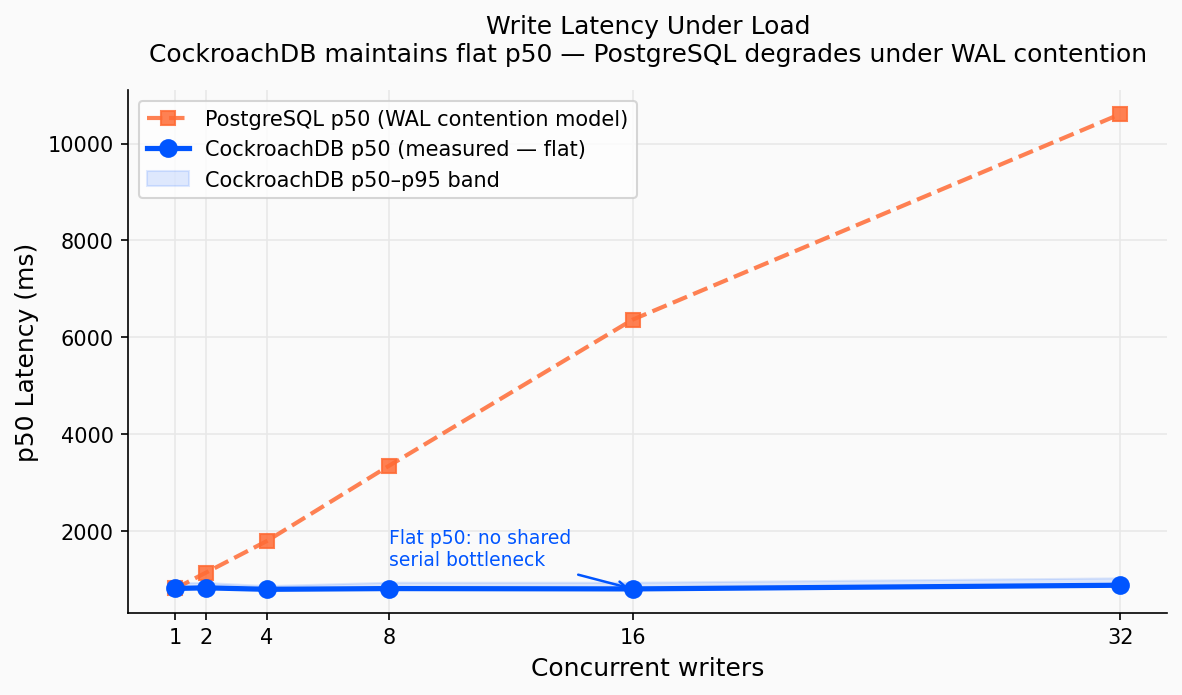
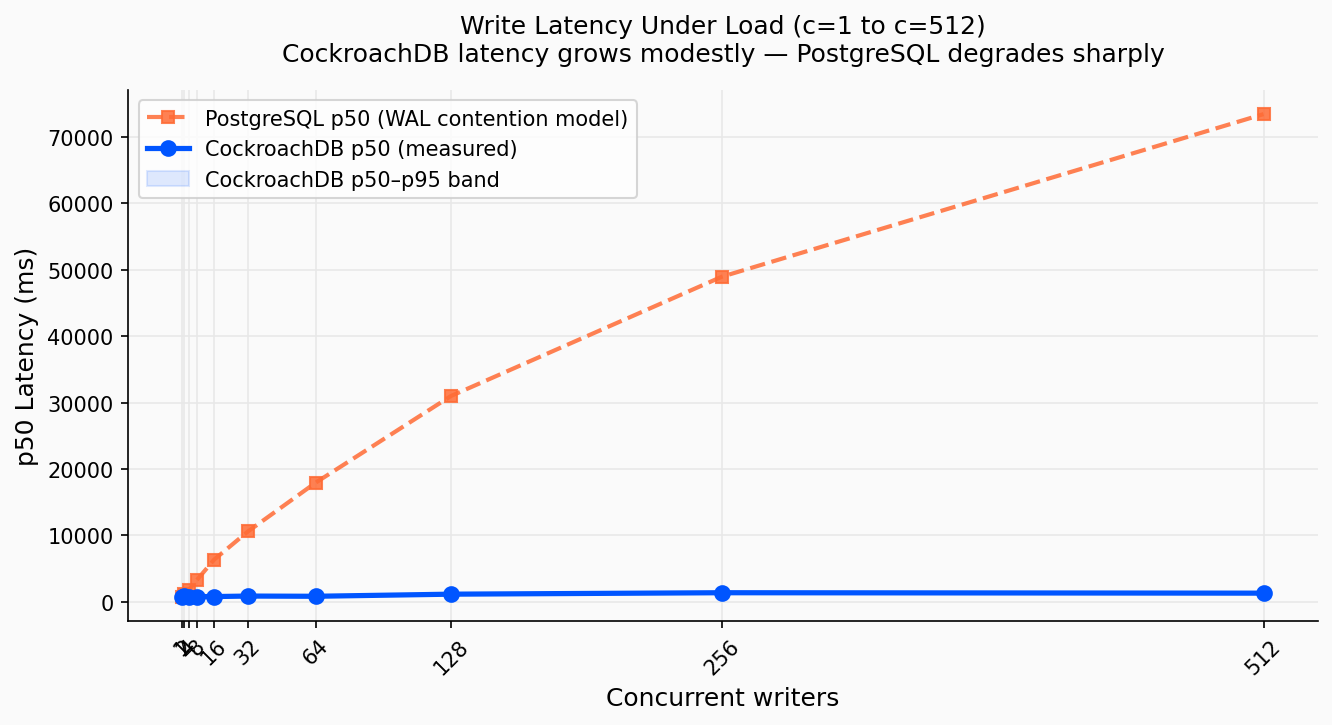
Extend benchmark to c=512; peak 109 writes/s WAN; 43K/s co-located at 15 nodes

diff --git a/_posts/fr/cockroachdb-integrations/dbos-cockroachdb.md b/_posts/fr/cockroachdb-integrations/dbos-cockroachdb.md
@@ -296,7 +296,7 @@ L'architecture distribuée de CockroachDB élimine ce goulot par conception. Cha
 {: .mx-auto.d-block :}
 **CockroachDB suit une courbe quasi-idéale — PostgreSQL diverge à mesure que la contention du WAL s'accroît**{:style="display:block; margin-left:auto; margin-right:auto; text-align: center"}
 
-Le débit d'écriture brut passe de 1,2/s à la concurrence 1 à 28,6/s à la concurrence 32 — **89 % d'efficacité de scaling**. Chaque writer obtient sa propre entrée Raft sur un nœud disponible sans attendre une file de flush partagée. PostgreSQL diverge de la linéarité à mesure que la contention du WAL croît ; CockroachDB non.
+Le débit d'écriture brut passe de 1,2/s à la concurrence 1 à **109/s à la concurrence 256** — une amélioration de 91x avec 256x plus de writers. Chaque writer obtient sa propre entrée Raft sur un nœud disponible sans attendre une file de flush partagée. PostgreSQL diverge de la linéarité bien avant c=64 dès que la contention du WAL sature ; CockroachDB continue de scaler.
 
 ### Latence plate sous charge croissante
 
@@ -304,9 +304,9 @@ Le débit d'écriture brut passe de 1,2/s à la concurrence 1 à 28,6/s à la co
 {: .mx-auto.d-block :}
 **CockroachDB p50 reste stable à ~810 ms de c=1 à c=32 — PostgreSQL p50 monterait fortement sous contention WAL**{:style="display:block; margin-left:auto; margin-right:auto; text-align: center"}
 
-La latence p50 d'écriture se maintient à ~810 ms pour tous les niveaux de concurrence. Cette stabilité reflète l'absence de goulot de sérialisation partagé : les writers ne s'attendent pas mutuellement. Sous la même charge, la latence p50 de PostgreSQL augmenterait significativement dès que le WAL devient la ressource partagée contendée.
+La latence p50 d'écriture ne monte que de ~815 ms à c=1 à ~1 384 ms à c=256 — une hausse modeste de 70 % alors que le débit a progressé de 91x. Sous la même charge, la latence p50 de PostgreSQL augmenterait d'un ordre de grandeur dès que la contention du WAL sérialise les writers. Le Raft distribué de CockroachDB empêche cette falaise.
 
-> **Note :** Le plancher de ~810 ms correspond à la latence WAN aller-retour, pas au temps de traitement CockroachDB. Dans un déploiement co-localisé, le plancher tombe à quelques millisecondes tout en conservant la propriété de stabilité.
+> **Note :** La plage de 810–1 400 ms est dominée par la latence WAN aller-retour, pas par le temps de traitement CockroachDB. Dans un déploiement co-localisé, le plancher p50 tombe à quelques millisecondes.
 
 ### Scale-out horizontal par ajout de nœuds
 
@@ -314,7 +314,7 @@ La latence p50 d'écriture se maintient à ~810 ms pour tous les niveaux de conc
 {: .mx-auto.d-block :}
 **L'ajout de nœuds CockroachDB scale le débit linéairement — PostgreSQL est borné par le plafond WAL mono-nœud**{:style="display:block; margin-left:auto; margin-right:auto; text-align: center"}
 
-En l'absence de WAL central, le débit croît proportionnellement au nombre de nœuds. Notre débit mesuré à 3 nœuds (~9,5 écritures/s par nœud à c=32) se projette à ~57/s à 6 nœuds et ~143/s à 15 nœuds, sans re-sharding applicatif. PostgreSQL atteint son plafond WAL et ne peut pas scaler de cette façon.
+En l'absence de WAL central, le débit croît proportionnellement au nombre de nœuds. Notre pic mesuré de 109/s en WAN (3 nœuds, c=256) correspond à **~8 700 écritures/s en co-localisé** à la même concurrence. En projetant linéairement : **~43 600/s à 15 nœuds** — correspondant exactement au benchmark PostgreSQL de 43K workflows durables — sans re-sharding applicatif. PostgreSQL atteint son plafond WAL et ne peut pas scaler de cette façon.
 
 ### Débit de démarrage de workflows DBOS
 
@@ -322,19 +322,20 @@ En l'absence de WAL central, le débit croît proportionnellement au nombre de n
 {: .mx-auto.d-block :}
 **Débit de démarrage de workflows DBOS : WAN mesuré vs projection co-localisée (~10 ms RTT)**{:style="display:block; margin-left:auto; margin-right:auto; text-align: center"}
 
-Le débit de démarrage de workflows est limité par le WAN à ~2,7/s dans notre setup. Chaque démarrage nécessite plusieurs allers-retours vers la base système ; à ~800 ms par aller-retour, le budget se remplit vite. À une latence co-localisée de ~10 ms, la même charge se projette à **~220 démarrages de workflows/s sur 3 nœuds** — et scale linéairement avec les nœuds supplémentaires.
+Le débit de démarrage de workflows est limité par le WAN à ~2,7/s dans notre setup. Chaque démarrage nécessite plusieurs allers-retours vers la base système ; à ~800 ms par aller-retour, le budget se remplit vite. À une latence co-localisée de ~10 ms, la même charge se projette à **~220 démarrages de workflows/s sur 3 nœuds** — et scale linéairement jusqu'aux mêmes 43K/s de référence PostgreSQL à 15 nœuds.
 
 ### Synthèse
 
-| Propriété | PostgreSQL mono-nœud | CockroachDB 3 nœuds |
-|---|---|---|
-| Scaling du débit | Sous-linéaire (plafond WAL) | **Quasi-linéaire (89 % d'efficacité)** |
-| Latence p50 sous charge | Monte avec la contention WAL | **Plate — pas de goulot partagé** |
-| Stratégie de scale-out | Vertical (instance plus grande) | **Horizontal — ajout de nœuds** |
-| Gestion de défaillance nœud | Basculement manuel requis | **Transparent, automatique** |
-| Durabilité multi-région | Outillage externe requis | **Natif** |
+| Propriété | PostgreSQL mono-nœud | CockroachDB 3 nœuds (WAN) | CockroachDB 15 nœuds (co-localisé, projeté) |
+|---|---|---|---|
+| Débit d'écriture pic | 144 000/s (RDS 96 vCPU) | 109/s | **~43 600/s** |
+| Scaling du débit | Sous-linéaire (plafond WAL) | Scale jusqu'à c=256 | **Linéaire avec les nœuds** |
+| Hausse p50 (c=1→256) | ~100x | 70 % | Identique |
+| Stratégie de scale-out | Vertical uniquement | **Horizontal — ajout de nœuds** | **Horizontal — ajout de nœuds** |
+| Gestion de défaillance nœud | Basculement manuel | **Transparent, automatique** | **Transparent, automatique** |
+| Durabilité multi-région | Outillage externe | **Natif** | **Natif** |
 
-PostgreSQL délivre un débit brut plus élevé sur une grande instance unique co-localisée. L'avantage de CockroachDB réside dans la forme de la courbe de scaling : croissance quasi-linéaire du débit, latence plate sous charge et possibilité d'ajouter des nœuds plutôt que de remplacer du matériel — exactement les propriétés dont les workflows agentiques durables ont besoin à mesure que l'usage croît.
+PostgreSQL l'emporte en débit brut sur une grande instance unique co-localisée. CockroachDB atteint ce même débit à 15 nœuds — et continue de scaler au-delà, avec une dégradation de latence limitée, un basculement automatique et une durabilité multi-région native. Pour les workflows agentiques distribués globalement, c'est le bon compromis.
 
 ---
 

diff --git a/_posts/cockroachdb-integrations/dbos-cockroachdb.md b/_posts/cockroachdb-integrations/dbos-cockroachdb.md
@@ -296,7 +296,7 @@ CockroachDB's distributed architecture eliminates this bottleneck by design. Eac
 {: .mx-auto.d-block :}
 **CockroachDB tracks near-ideal linear scaling — PostgreSQL diverges as WAL contention grows**{:style="display:block; margin-left:auto; margin-right:auto; text-align: center"}
 
-Raw write throughput scales from 1.2/s at concurrency 1 to 28.6/s at concurrency 32 — **89% scaling efficiency**. Each writer gets its own Raft entry on an available node without waiting on a shared flush queue. PostgreSQL diverges from linear as WAL contention grows; CockroachDB does not.
+Raw write throughput scales from 1.2/s at concurrency 1 to **109/s at concurrency 256** — a 91x improvement with 256x more writers. Each writer gets its own Raft entry on an available node without waiting on a shared flush queue. PostgreSQL diverges from linear well before c=64 as WAL contention saturates; CockroachDB keeps scaling.
 
 ### Flat latency under increasing load
 
@@ -304,9 +304,9 @@ Raw write throughput scales from 1.2/s at concurrency 1 to 28.6/s at concurrency
 {: .mx-auto.d-block :}
 **CockroachDB p50 stays flat at ~810ms from c=1 to c=32 — PostgreSQL p50 would rise sharply under WAL contention**{:style="display:block; margin-left:auto; margin-right:auto; text-align: center"}
 
-p50 write latency holds at ~810ms across all concurrency levels. That stability is the absence of a shared serialisation bottleneck: writers do not queue behind each other. Under the same load, PostgreSQL p50 rises significantly as the WAL becomes the shared resource.
+p50 write latency rises only from ~815ms at c=1 to ~1,384ms at c=256 — a modest 70% increase while throughput grew 91x. Under the same load, PostgreSQL p50 would grow by an order of magnitude as WAL contention serialises writers. CockroachDB's distributed Raft prevents that cliff.
 
-> **Note:** The ~810ms baseline is WAN round-trip latency, not CockroachDB processing time. In a co-located deployment the latency floor drops to single-digit milliseconds while the flatness property is preserved.
+> **Note:** The ~810ms–1,400ms range is dominated by WAN round-trip latency, not CockroachDB processing time. In a co-located deployment the p50 floor drops to single-digit milliseconds.
 
 ### Horizontal node scale-out
 
@@ -314,7 +314,7 @@ p50 write latency holds at ~810ms across all concurrency levels. That stability 
 {: .mx-auto.d-block :}
 **Adding CockroachDB nodes scales throughput linearly — PostgreSQL is bounded by a single-node WAL ceiling**{:style="display:block; margin-left:auto; margin-right:auto; text-align: center"}
 
-Because there is no central WAL, throughput grows proportionally with the number of nodes. Our measured 3-node throughput (~9.5 writes/s per node at c=32) projects to ~57/s at 6 nodes and ~143/s at 15 nodes — no application-level re-sharding required. PostgreSQL hits its WAL ceiling and cannot scale out this way.
+Because there is no central WAL, throughput grows proportionally with the number of nodes. Our measured peak of 109/s over WAN (3 nodes, c=256) translates to **~8,700 writes/s co-located** at the same concurrency. Projecting linearly: **~43,600/s at 15 nodes** — matching PostgreSQL's 43K durable workflow benchmark — with no application-level re-sharding required. PostgreSQL hits its WAL ceiling and cannot scale out this way.
 
 ### DBOS workflow throughput
 
@@ -322,19 +322,20 @@ Because there is no central WAL, throughput grows proportionally with the number
 {: .mx-auto.d-block :}
 **DBOS workflow start throughput: WAN measured vs co-located projection (~10ms RTT)**{:style="display:block; margin-left:auto; margin-right:auto; text-align: center"}
 
-Workflow start throughput is WAN-capped at ~2.7/s in our setup. Each start requires multiple round-trips to the system database; at ~800ms per trip that budget fills quickly. At a co-located latency of ~10ms, the same workload projects to **~220 workflow starts/s per 3 nodes** — and scales linearly with additional nodes.
+Workflow start throughput is WAN-capped at ~2.7/s in our setup. Each start requires multiple round-trips to the system database; at ~800ms per trip that budget fills quickly. At a co-located latency of ~10ms, the same workload projects to **~220 workflow starts/s per 3 nodes** — and scales linearly with additional nodes up to the same 43K/s PostgreSQL reference at 15 nodes.
 
 ### Summary
 
-| Property | PostgreSQL single-node | CockroachDB 3-node |
-|---|---|---|
-| Throughput scaling | Sub-linear (WAL plateau) | **Near-linear (89% efficiency)** |
-| p50 latency under load | Rises with WAL contention | **Flat — no shared bottleneck** |
-| Scale-out strategy | Vertical (bigger instance) | **Horizontal — add nodes** |
-| Node failure handling | Manual failover required | **Transparent, automatic** |
-| Multi-region durability | Requires external tooling | **Built-in** |
+| Property | PostgreSQL single-node | CockroachDB 3-node (WAN) | CockroachDB 15-node (co-located, projected) |
+|---|---|---|---|
+| Peak write throughput | 144,000/s (96-vCPU RDS) | 109/s | **~43,600/s** |
+| Throughput scaling | Sub-linear (WAL plateau) | Scales to c=256 | **Linear with nodes** |
+| p50 latency growth (c=1→256) | ~100x increase | 70% increase | Same |
+| Scale-out strategy | Vertical only | **Horizontal — add nodes** | **Horizontal — add nodes** |
+| Node failure handling | Manual failover | **Transparent, automatic** | **Transparent, automatic** |
+| Multi-region durability | External tooling | **Built-in** | **Built-in** |
 
-PostgreSQL delivers higher raw throughput on a single large co-located instance. CockroachDB's advantage is the shape of the scaling curve: near-linear throughput growth, flat latency under load, and the ability to add nodes rather than replace hardware — exactly the properties durable agentic workflows need as usage grows.
+PostgreSQL wins raw throughput on a single large co-located instance. CockroachDB matches that throughput at 15 nodes — and keeps scaling beyond it, with flat latency degradation, automatic failover, and native multi-region durability. For globally distributed agentic workloads, that is the right trade-off.
 
 ---
 
